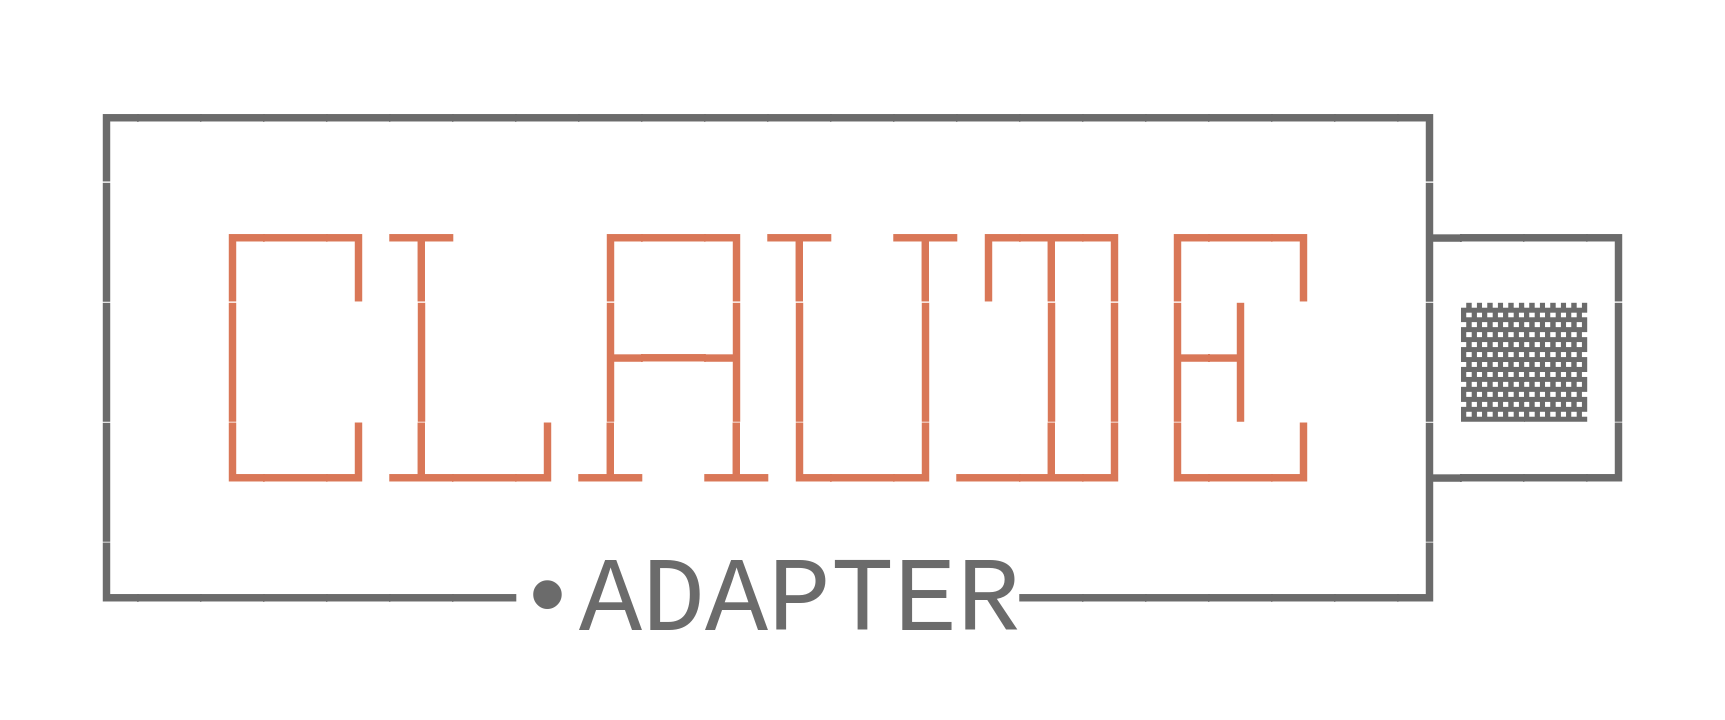
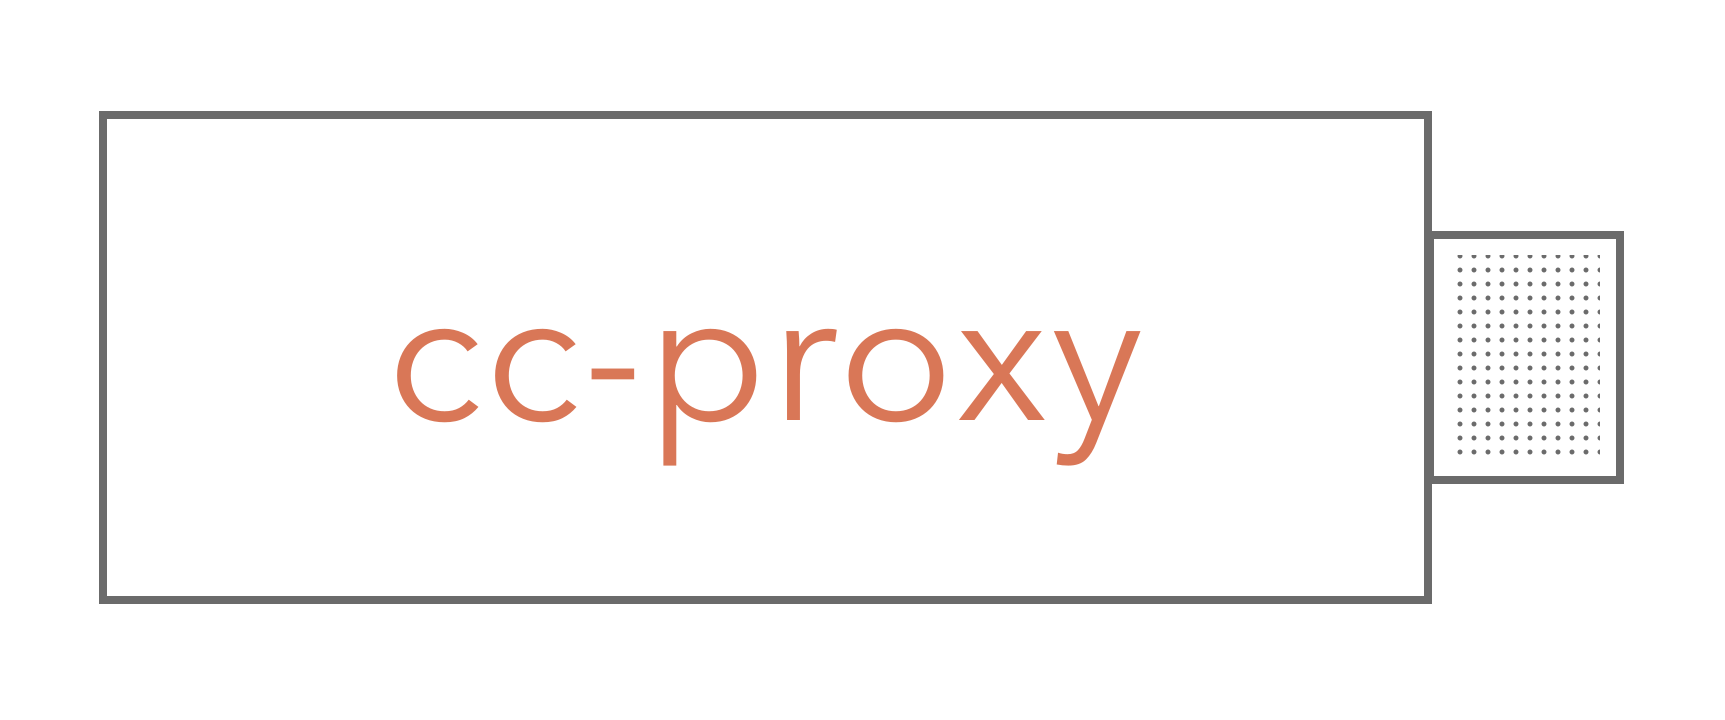
refactor: rename product identity to cc-proxy

diff --git a/docs/cc-switch-conversion-comparison.html b/docs/cc-switch-conversion-comparison.html
@@ -3,7 +3,7 @@
 <head>
   <meta charset="utf-8">
   <meta name="viewport" content="width=device-width, initial-scale=1">
-  <title>cc-switch 与 claude-adapter：Request / Response 转换对比</title>
+  <title>cc-switch 与 cc-proxy：Request / Response 转换对比</title>
   <style>
     :root { color-scheme: light dark; font-family: system-ui, -apple-system, "Segoe UI", sans-serif; line-height: 1.65; }
     body { max-width: 1160px; margin: 0 auto; padding: 30px 22px 70px; color: light-dark(#17212b, #e7edf3); background: light-dark(#f6f8fb, #111820); }
@@ -35,14 +35,14 @@
 </head>
 <body>
   <main>
-    <h1>cc-switch 与 claude-adapter<br>Request / Response 转换对比</h1>
+    <h1>cc-switch 与 cc-proxy<br>Request / Response 转换对比</h1>
     <p class="lead">代码快照：cc-switch <code>f2537fd</code>；本项目 <code>63a66b6</code> 加当前工作区修改。范围：Claude Code 的 Anthropic Messages 请求，经 OpenAI Chat Completions 或 Responses 上游，再转换回 Anthropic 响应。2026-09-23。</p>
 
     <div class="summary"><strong>结论：</strong>cc-switch 胜在协议覆盖、多模态与供应商适配；本项目胜在 Chat Completions 单一路径的输入校验、失败可见性和流终止约束。若只评估共同的 Chat 流式转换，我更推荐本项目的处理方式；两者没有同条件性能实测，不能给出速度排名。</div>
 
     <div class="grid" aria-label="双方主要优点与不足">
       <section class="card"><h3>cc-switch</h3><span class="tag">主要优点</span><ul><li>同一 Claude 入口支持 Chat Completions、Responses、Gemini 等格式；Responses 路径处理 reasoning 回传和 hosted tools。</li><li>Chat 路径支持普通图片，并把 <code>tool_result</code> 图片转成后续 user 消息；工具 schema 会做上游兼容清理。</li><li>流式 usage 等待末尾统计，处理重复 <code>finish_reason</code>；客户端 usage 可拆分缓存 token。</li></ul><span class="tag risk">主要不足</span><ul><li>Chat 非流式工具参数 JSON 解析失败会回退为 <code>{}</code>；未知结束原因回退为 <code>end_turn</code>，可能隐藏上游协议问题。</li><li>覆盖多个协议和供应商，使转换行为依赖路由与 provider 选项，定位问题需要跟踪更多分支。</li></ul></section>
-      <section class="card"><h3>claude-adapter</h3><span class="tag">主要优点</span><ul><li>Request 先校验必需字段和内容结构；Response 对 malformed tool arguments、缺失 tool name、未知结束原因返回明确错误。</li><li>SSE 对并行工具、分片名称、完整 JSON 参数、结束信号建立明确约束；错误流不会再发送成功结束事件。</li><li>遵守旧版 TypeScript 的 Chat 请求 wire shape，并保留 GLM/Qwen 的已选参数，行为边界容易验证。</li></ul><span class="tag risk">主要不足</span><ul><li>只支持 Anthropic Messages ↔ Chat Completions；图片及工具结果图片直接返回 400。</li><li>不清理工具 JSON schema；客户端 usage 只返回 input/output，总缓存明细保留在内部 JSONL。</li></ul></section>
+      <section class="card"><h3>cc-proxy</h3><span class="tag">主要优点</span><ul><li>Request 先校验必需字段和内容结构；Response 对 malformed tool arguments、缺失 tool name、未知结束原因返回明确错误。</li><li>SSE 对并行工具、分片名称、完整 JSON 参数、结束信号建立明确约束；错误流不会再发送成功结束事件。</li><li>遵守旧版 TypeScript 的 Chat 请求 wire shape，并保留 GLM/Qwen 的已选参数，行为边界容易验证。</li></ul><span class="tag risk">主要不足</span><ul><li>只支持 Anthropic Messages ↔ Chat Completions；图片及工具结果图片直接返回 400。</li><li>不清理工具 JSON schema；客户端 usage 只返回 input/output，总缓存明细保留在内部 JSONL。</li></ul></section>
     </div>
 
     <h2>逐项比较</h2>

diff --git a/tests/native.test.ts b/tests/native.test.ts
@@ -18,7 +18,7 @@ const spawnMock = jest.mocked(spawn);
 const existsSyncMock = jest.mocked(existsSync);
 const originalPlatform = process.platform;
 const originalArch = process.arch;
-const TEST_API_KEY_ENV = 'CLAUDE_ADAPTER_TEST_API_KEY';
+const TEST_API_KEY_ENV = 'CC_PROXY_TEST_API_KEY';
 
 interface FakeChild extends ChildProcess {
   stdout: PassThrough;
@@ -67,8 +67,8 @@ afterEach(() => {
 
 describe('native platform selection', () => {
   it.each([
-    ['linux', 'x64', 'linux-x64-gnu', 'claude-adapter-native'],
-    ['win32', 'x64', 'win32-x64-msvc', 'claude-adapter-native.exe'],
+    ['linux', 'x64', 'linux-x64-gnu', 'cc-proxy-native'],
+    ['win32', 'x64', 'win32-x64-msvc', 'cc-proxy-native.exe'],
   ] as const)('maps %s-%s to its bundled binary', (platform, arch, directory, binary) => {
     expect(nativeTargetForPlatform(platform, arch)).toEqual({ directory, binary });
   });
@@ -84,7 +84,7 @@ describe('native platform selection', () => {
     Object.defineProperty(process, 'arch', { value: 'x64', configurable: true });
     existsSyncMock.mockReturnValue(false);
     expect(() => resolveNativeBinary()).toThrow(
-      /Offline package is missing bin\/win32-x64-msvc\/claude-adapter-native\.exe.*Reinstall claude-adapter@1\.0\.0/
+      /Offline package is missing bin\/win32-x64-msvc\/cc-proxy-native\.exe.*Reinstall cc-proxy@1\.0\.0/
     );
   });
 
@@ -109,7 +109,7 @@ describe('native process lifecycle', () => {
     spawnMock.mockReturnValue(child);
 
     const starting = startNativeServer('/tmp/config.json', 3080);
-    child.stdout.write('CLAUDE_ADAPTER_READY={"url":"http://localhost:3080"}\n');
+    child.stdout.write('CC_PROXY_READY={"url":"http://localhost:3080"}\n');
     const server = await starting;
     await server.stop();
 
@@ -119,10 +119,10 @@ describe('native process lifecycle', () => {
     const options = spawnMock.mock.calls[0][2]!;
     if (process.platform === 'win32') {
       expect(options.stdio?.[0]).toBe('pipe');
-      expect(options.env?.CLAUDE_ADAPTER_STDIN_SHUTDOWN).toBe('1');
+      expect(options.env?.CC_PROXY_STDIN_SHUTDOWN).toBe('1');
     } else {
       expect(options.stdio?.[0]).toBe('ignore');
-      expect(options.env?.CLAUDE_ADAPTER_STDIN_SHUTDOWN).toBeUndefined();
+      expect(options.env?.CC_PROXY_STDIN_SHUTDOWN).toBeUndefined();
       expect(child.kill).toHaveBeenCalledWith('SIGTERM');
     }
   });
@@ -133,7 +133,7 @@ describe('native process lifecycle', () => {
     spawnMock.mockReturnValue(child);
 
     const starting = startNativeServer('/tmp/config.json', 3080);
-    child.stdout.write('CLAUDE_ADAPTER_READY={"url":"http://localhost:3080"}\n');
+    child.stdout.write('CC_PROXY_READY={"url":"http://localhost:3080"}\n');
     const server = await starting;
 
     expect(spawnMock.mock.calls[0][2]?.env?.[TEST_API_KEY_ENV]).toBe('secret');
@@ -144,7 +144,7 @@ describe('native process lifecycle', () => {
     const child = createFakeChild();
     spawnMock.mockReturnValue(child);
     const starting = startNativeServer('/tmp/config.json', 3080);
-    child.stdout.write('CLAUDE_ADAPTER_READY={}\n');
+    child.stdout.write('CC_PROXY_READY={}\n');
     await expect(starting).rejects.toThrow('ready record has no URL');
   });
 

diff --git a/src/cli.ts b/src/cli.ts
@@ -1,5 +1,5 @@
 #!/usr/bin/env node
-// CLI entry point for claude-adapter
+// CLI entry point for cc-proxy
 import { Command } from 'commander';
 import inquirer from 'inquirer';
 import { join } from 'node:path';
@@ -22,7 +22,7 @@ import { version } from '../package.json';
 const program = new Command();
 
 program
-  .name('claude-adapter')
+  .name('cc-proxy')
   .description('Proxy adapter to use OpenAI API with Claude Code')
   .version(version);
 
@@ -41,7 +41,7 @@ program
       // Step 1: Update ~/.claude.json for onboarding skip (if enabled)
       if (options.claudeSettings) {
         updateClaudeJson();
-        UI.statusDone(true, 'Initialized Claude Adapter');
+        UI.statusDone(true, 'Initialized cc-proxy');
       } else {
         UI.info('Skipping Claude settings update (--no-claude-settings)');
       }
@@ -53,7 +53,7 @@ program
         UI.log(''); // Spacing
         config = await promptForConfiguration();
         saveConfig(config);
-        UI.info('Creating Claude Adapter API...');
+        UI.info('Creating cc-proxy API...');
       } else {
         UI.info('Using existing configuration');
       }
@@ -62,7 +62,7 @@ program
       const preferredPort = parseInt(options.port, 10) || 3080;
       const server = await startNativeServer(join(getConfigDir(), 'config.json'), preferredPort);
       const proxyUrl = server.url;
-      UI.statusDone(true, `Claude Adapter running at ${UI.newUrl(proxyUrl)}`);
+      UI.statusDone(true, `cc-proxy running at ${UI.newUrl(proxyUrl)}`);
 
       // Step 4: Update Claude Code settings (if enabled)
       if (options.claudeSettings) {
@@ -80,7 +80,7 @@ program
         UI.hint(`Set ANTHROPIC_BASE_URL=${proxyUrl} in your Claude Code settings`);
       }
 
-      UI.success('Claude Adapter is ready!');
+      UI.success('cc-proxy is ready!');
       UI.info('Open a new terminal tab and run Claude Code.');
       UI.hint('Press Ctrl+C to stop the proxy server.');
 
@@ -98,7 +98,7 @@ program
         shuttingDown = true;
         UI.log('');
         await server.stop(signal);
-        UI.success('Claude Adapter stopped');
+        UI.success('cc-proxy stopped');
         process.exit(0);
       };
       process.once('SIGINT', () => void shutdown('SIGINT'));

diff --git a/src/native.ts b/src/native.ts
@@ -5,7 +5,7 @@ import { version } from '../package.json';
 
 const STARTUP_TIMEOUT_MS = 10_000;
 const SHUTDOWN_TIMEOUT_MS = 10_000;
-const READY_PREFIX = 'CLAUDE_ADAPTER_READY=';
+const READY_PREFIX = 'CC_PROXY_READY=';
 
 interface NativeTarget {
   directory: string;
@@ -13,8 +13,8 @@ interface NativeTarget {
 }
 
 const NATIVE_TARGETS: Record<string, NativeTarget> = {
-  'linux-x64': { directory: 'linux-x64-gnu', binary: 'claude-adapter-native' },
-  'win32-x64': { directory: 'win32-x64-msvc', binary: 'claude-adapter-native.exe' },
+  'linux-x64': { directory: 'linux-x64-gnu', binary: 'cc-proxy-native' },
+  'win32-x64': { directory: 'win32-x64-msvc', binary: 'cc-proxy-native.exe' },
 };
 
 export interface NativeServer {
@@ -57,7 +57,7 @@ export function resolveNativeBinary(): string {
   }
   throw new Error(
     `Offline package is missing bin/${target.directory}/${target.binary}. ` +
-      `Reinstall claude-adapter@${version} from the complete npm tarball.`
+      `Reinstall cc-proxy@${version} from the complete npm tarball.`
   );
 }
 
@@ -65,8 +65,8 @@ export async function startNativeServer(configPath: string, port: number): Promi
   const binary = resolveNativeBinary();
   const windowsStdinShutdown = process.platform === 'win32';
   const env = { ...process.env };
-  if (windowsStdinShutdown) env.CLAUDE_ADAPTER_STDIN_SHUTDOWN = '1';
-  else delete env.CLAUDE_ADAPTER_STDIN_SHUTDOWN;
+  if (windowsStdinShutdown) env.CC_PROXY_STDIN_SHUTDOWN = '1';
+  else delete env.CC_PROXY_STDIN_SHUTDOWN;
   const child = spawn(binary, ['--config', configPath, '--port', String(port)], {
     stdio: [windowsStdinShutdown ? 'pipe' : 'ignore', 'pipe', 'pipe'],
     windowsHide: true,

diff --git a/tests/config.test.ts b/tests/config.test.ts
@@ -3,7 +3,7 @@ import { existsSync, mkdirSync, rmSync, writeFileSync, readFileSync } from 'fs';
 import { join } from 'path';
 import { tmpdir } from 'os';
 
-const TEST_DIR = join(tmpdir(), 'claude-adapter-config-test-' + Date.now());
+const TEST_DIR = join(tmpdir(), 'cc-proxy-config-test-' + Date.now());
 const ADAPTER_DIR = join(TEST_DIR, '.claude-adapter');
 const CLAUDE_DIR = join(TEST_DIR, '.claude');
 
@@ -80,7 +80,7 @@ describe('Config Utilities', () => {
                 models: { opus: 'gpt-4', sonnet: 'gpt-3.5', haiku: 'gpt-3.5' },
                 upstreamHeaders: {
                     'HTTP-Referer': 'https://example.com',
-                    'X-Title': 'Claude Adapter'
+                    'X-Title': 'cc-proxy'
                 },
                 upstreamCapabilities: { assistantPrefill: 'continue_final_message' as const }
             };
@@ -131,7 +131,7 @@ describe('Config Utilities', () => {
                 models: { opus: 'model-1', sonnet: 'model-2', haiku: 'model-3' },
                 upstreamHeaders: {
                     'HTTP-Referer': 'https://example.com',
-                    'X-Title': 'Claude Adapter'
+                    'X-Title': 'cc-proxy'
                 }
             };
 

diff --git a/tests/upstreamHeaders.test.ts b/tests/upstreamHeaders.test.ts
@@ -9,12 +9,12 @@ describe('parseUpstreamHeadersInput', () => {
   it('should parse a valid headers JSON object', () => {
     expect(
       parseUpstreamHeadersInput(
-        '{"HTTP-Referer":"https://example.com","X-Title":"Claude Adapter","User-Agent":"Claude-Adapter/2.2"}'
+        '{"HTTP-Referer":"https://example.com","X-Title":"cc-proxy","User-Agent":"cc-proxy/2.2"}'
       )
     ).toEqual({
       'HTTP-Referer': 'https://example.com',
-      'X-Title': 'Claude Adapter',
-      'User-Agent': 'Claude-Adapter/2.2',
+      'X-Title': 'cc-proxy',
+      'User-Agent': 'cc-proxy/2.2',
     });
   });
 

diff --git a/src/utils/update.ts b/src/utils/update.ts
@@ -41,7 +41,7 @@ function fetchLatestVersion(): Promise<string | null> {
     return new Promise((resolve) => {
         const timeout = setTimeout(() => resolve(null), 3000); // 3s timeout
 
-        https.get('https://registry.npmjs.org/claude-adapter/latest', (res) => {
+        https.get('https://registry.npmjs.org/cc-proxy/latest', (res) => {
             let data = '';
             res.on('data', chunk => data += chunk);
             res.on('end', () => {

diff --git a/tests/ui.test.ts b/tests/ui.test.ts
@@ -150,7 +150,7 @@ describe('UI Utility Class', () => {
             expect(updateMessage).toContain('1.0.0');
             expect(updateMessage).toContain('1.1.0');
             const hintMessage = mockConsoleLog.mock.calls[2][0];
-            expect(hintMessage).toContain('Run "npm i -g claude-adapter" to update');
+            expect(hintMessage).toContain('Run "npm i -g cc-proxy" to update');
         });
     });
 });

diff --git a/tests/metadata.test.ts b/tests/metadata.test.ts
@@ -3,7 +3,7 @@ import { existsSync, mkdirSync, rmSync, writeFileSync, readFileSync } from 'fs';
 import { join } from 'path';
 import { tmpdir } from 'os';
 
-const TEST_DIR = join(tmpdir(), 'claude-adapter-metadata-test-' + Date.now());
+const TEST_DIR = join(tmpdir(), 'cc-proxy-metadata-test-' + Date.now());
 
 // Mock the home directory to use test directory
 jest.mock('os', () => {

diff --git a/src/utils/ui.ts b/src/utils/ui.ts
@@ -115,6 +115,6 @@ export class UI {
     this.log(
       `${chalk.hex(Palette.Dim)('•')} ${chalk.hex(Palette.Text)('Update available:')} ${chalk.hex(Palette.Dim)(current)} ${chalk.hex(Palette.Dim)('→')} ${chalk.hex(Palette.Highlight)(latest)}`
     );
-    this.hint('Run "npm i -g claude-adapter" to update');
+    this.hint('Run "npm i -g cc-proxy" to update');
   }
 }

diff --git a/src/types/config.ts b/src/types/config.ts
@@ -1,4 +1,4 @@
-// Configuration types for claude-adapter
+// Configuration types for cc-proxy
 
 interface AdapterConfigBase {
     baseUrl: string;

diff --git a/native/tests/unit/server/upstream.rs b/native/tests/unit/server/upstream.rs
@@ -26,8 +26,8 @@ fn custom_upstream_headers_are_preserved() {
         api_key_env: None,
         upstream_headers: Some(HashMap::from([
             ("HTTP-Referer".to_owned(), "https://example.com".to_owned()),
-            ("X-Title".to_owned(), "Claude Adapter".to_owned()),
-            ("User-Agent".to_owned(), "Claude-Adapter/2.0".to_owned()),
+            ("X-Title".to_owned(), "cc-proxy".to_owned()),
+            ("User-Agent".to_owned(), "cc-proxy/2.0".to_owned()),
         ])),
         upstream_capabilities: Default::default(),
     };
@@ -35,8 +35,8 @@ fn custom_upstream_headers_are_preserved() {
     let headers = build_default_headers(&config).unwrap();
 
     assert_eq!(headers["http-referer"], "https://example.com");
-    assert_eq!(headers["x-title"], "Claude Adapter");
-    assert_eq!(headers[header::USER_AGENT], "Claude-Adapter/2.0");
+    assert_eq!(headers["x-title"], "cc-proxy");
+    assert_eq!(headers[header::USER_AGENT], "cc-proxy/2.0");
     assert_eq!(headers[header::ACCEPT], "application/json");
     assert_eq!(headers[header::CONTENT_TYPE], "application/json");
     assert_eq!(headers[header::AUTHORIZATION], "Bearer secret");
